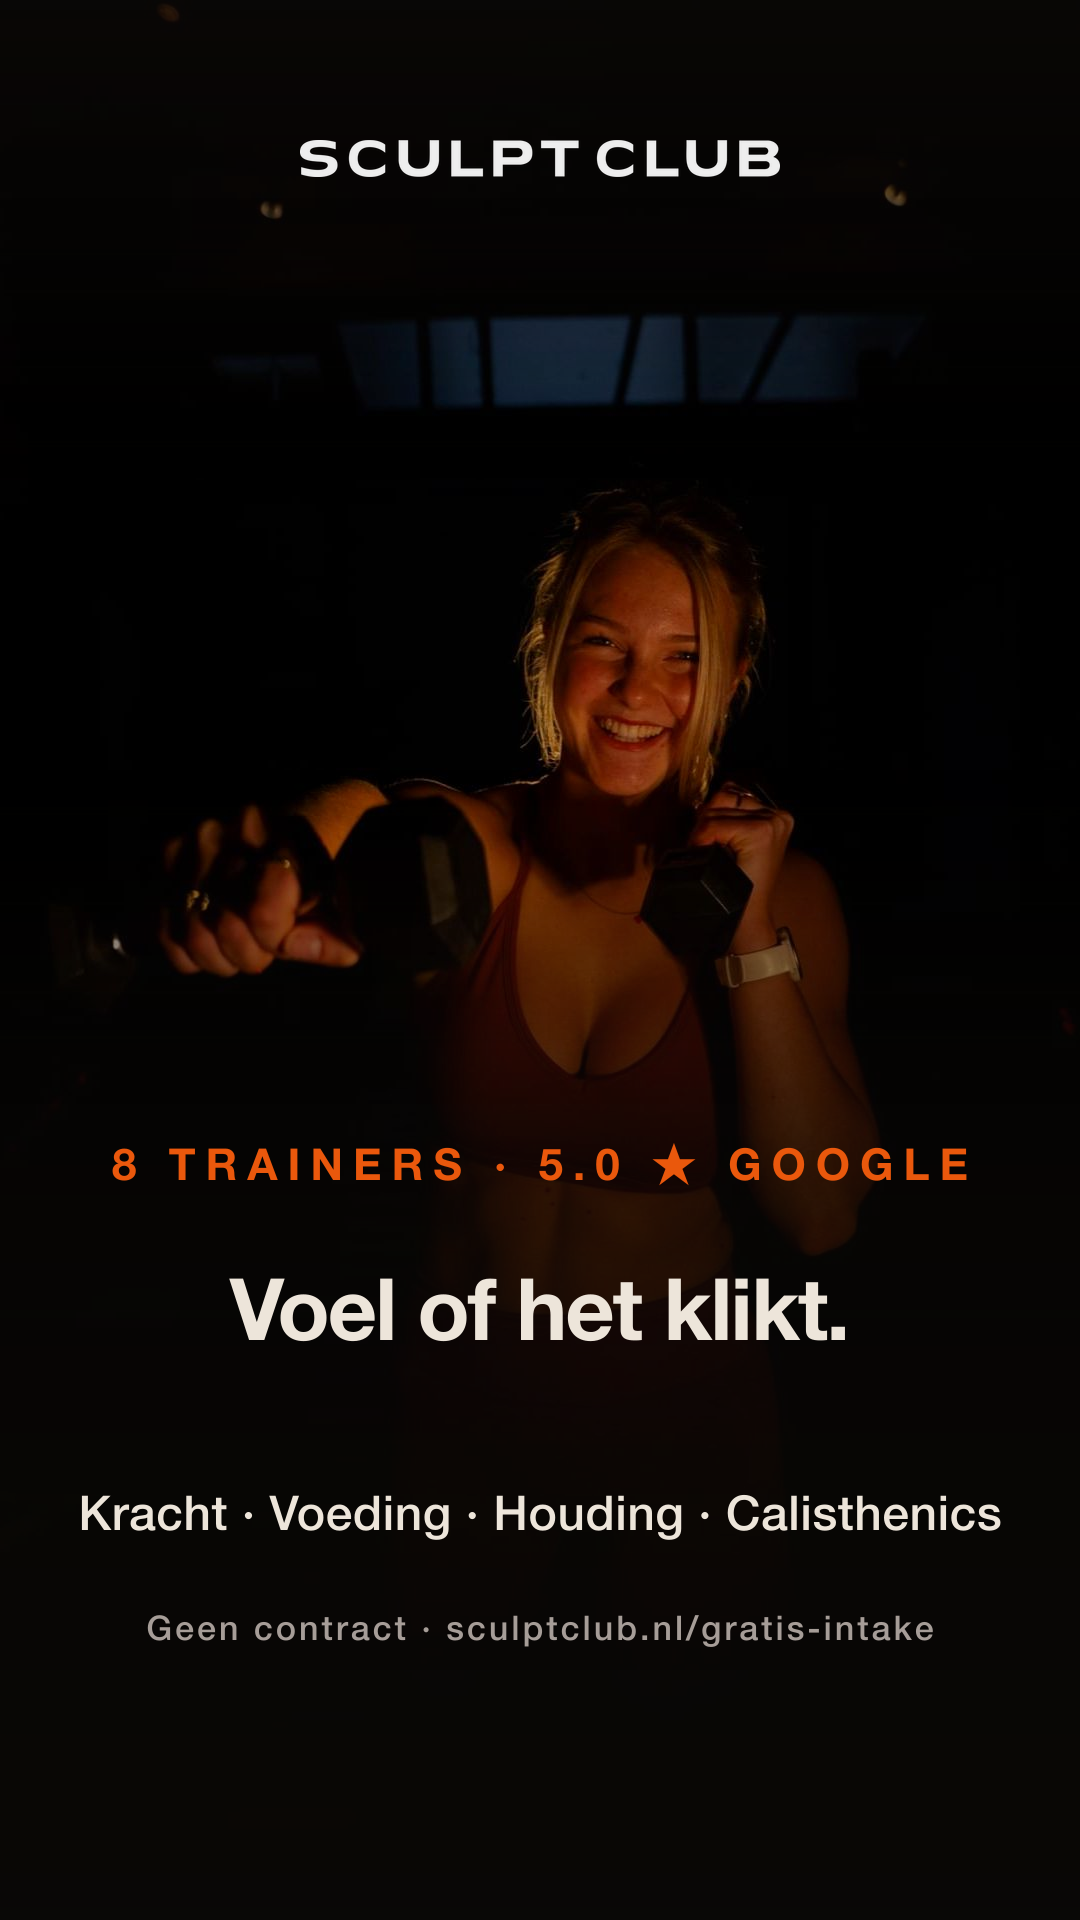
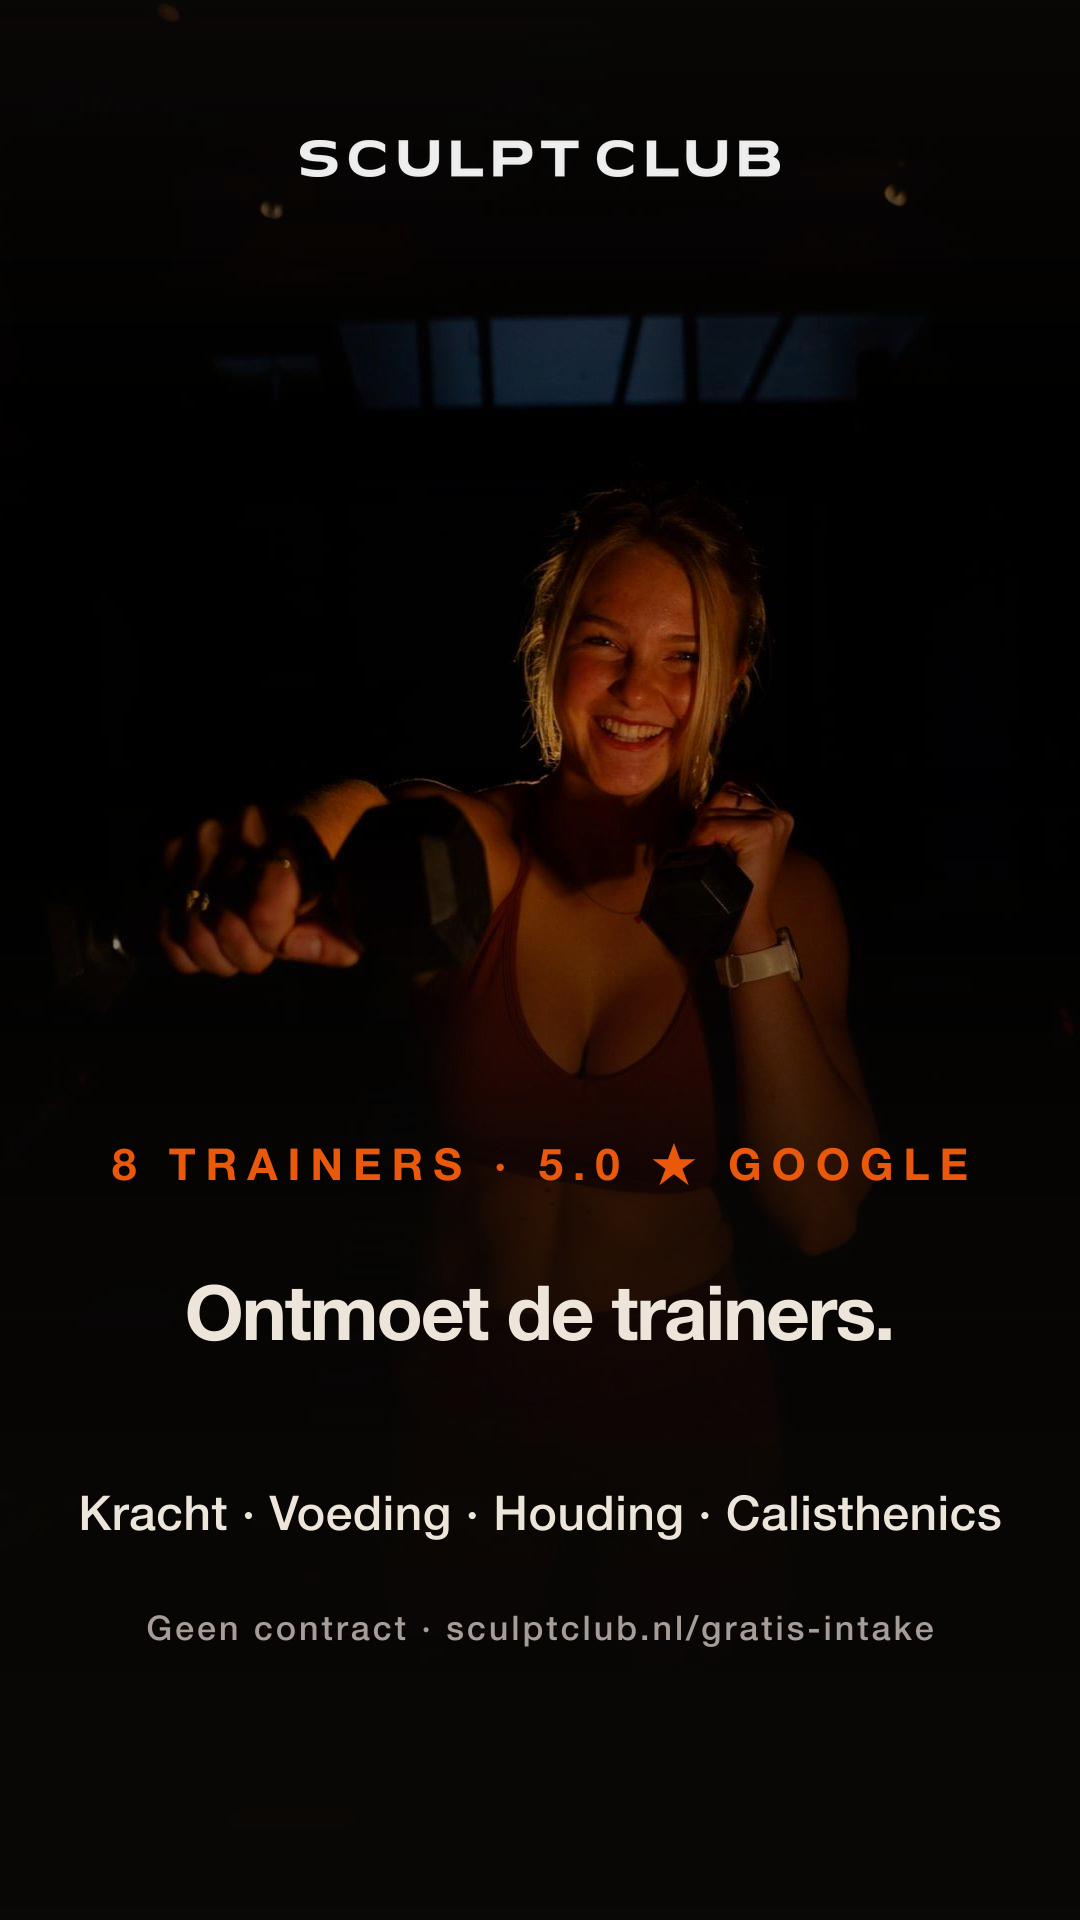
fix(intake-pitch): slide-2 hero "Ontmoet de trainers."
Operator caught that "Voel of het klikt." reads as dating-app copy in
Dutch — *klikken* defaults to romantic-chemistry register in marketing
context, regardless of dictionary breadth (it has work/friendship uses
too, but Tinder + Lexa + Bumble.nl all built their NL copy on it, so
the contemporary association is dating). Native instinct beat my
taxonomy on that one.

Swap to "Ontmoet de trainers.":
- Plural "de trainers" (not "jouw trainer") = browse-the-roster
  invitation, zero soulmate/match coding
- "Ontmoet" is boutique-vocabulary register (Equinox: "meet your
  community"; never "see if you click")
- Period-stop rhythm matches slide 1 "Privé. 1-op-1." for visual
  consistency across the carousel
- Native Dutch, ~20 chars, fits cleanly at heroScale 0.7

Slide 3 ("Plan je eerste sessie.") + TikTok title hook ("Acht trainers,
één privé studio aan de Egelantiersgracht.") from the previous commit
stay unchanged — only slide 2 hero swapped.

Changed region(s): [[0.1528, 0.6562, 0.825, 0.7188]]

diff --git a/public/social/intake-pitch-001/index.html b/public/social/intake-pitch-001/index.html
@@ -433,7 +433,7 @@ function renderCopySection(platform) {
 // Slide names match the keys in scripts/build-tiktok-post.mjs POSTS["intake-pitch-001"].
 const slidesData = [
   { name: "main-offer",  label: "1", title: "Privé · 1-op-1 · 45 min" },
-  { name: "no-pressure", label: "2", title: "Voel of het klikt · 8 trainers" },
+  { name: "no-pressure", label: "2", title: "Ontmoet de trainers · 8 specialisten" },
   { name: "location",    label: "3", title: "Plan je eerste sessie · /gratis-intake" }
 ];
 
